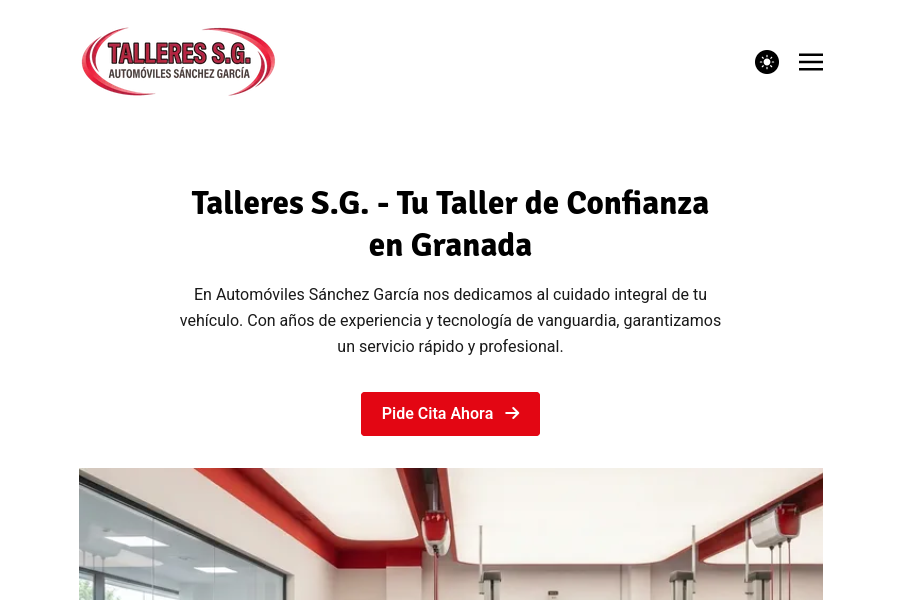
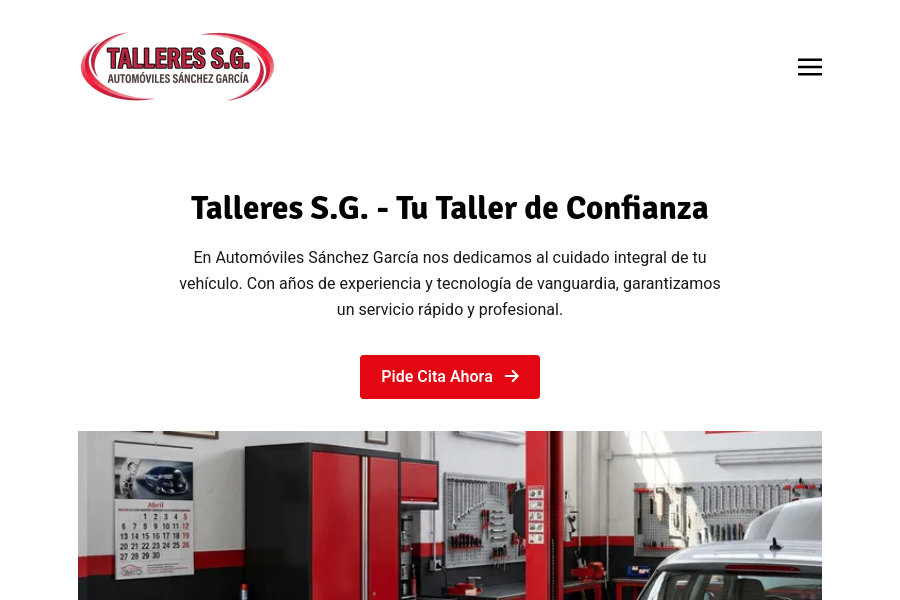
Update images

diff --git a/content/spanish/_index.md b/content/spanish/_index.md
@@ -3,7 +3,7 @@
 banner:
   title: "Talleres S.G. - Tu Taller de Confianza"
   content: "En Automóviles Sánchez García nos dedicamos al cuidado integral de tu vehículo. Con años de experiencia y tecnología de vanguardia, garantizamos un servicio rápido y profesional."
-  image: "/images/hero-workshop2.png"
+  image: "/images/hero-workshop3.png"
   button:
     enable: true
     label: "Pide Cita Ahora"
@@ -25,7 +25,7 @@ features:
       link: ""
 
   - title: "Neumáticos y Diagnosis Avanzada"
-    image: "/images/service-tires.png"
+    image: "/images/service_tires_diagnosis_local.png"
     content: "Contamos con equipos de diagnosis de última generación para detectar cualquier fallo electrónico en tu vehículo de forma precisa."
     bulletpoints:
       - "Venta y montaje de neumáticos"
@@ -38,7 +38,7 @@ features:
       link: "/services"
 
   - title: "¿Por qué elegir Talleres S.G.?"
-    image: "/images/service-3.png"
+    image: "/images/service_trust_local2.png"
     content: "Somos un taller familiar comprometido con el cliente. Honestidad y transparencia en cada presupuesto."
     bulletpoints:
       - "Presupuestos sin compromiso y precios competitivos."

diff --git a/content/spanish/about/_index.md b/content/spanish/about/_index.md
@@ -2,7 +2,7 @@
 title: "Sobre Nosotros - Automóviles Sánchez García"
 meta_title: "Quiénes Somos"
 description: "Conoce la historia y el equipo detrás de Talleres S.G."
-image: "/images/hero-workshop2.png"
+image: "/images/hero-workshop3.png"
 layout: "about"
 draft: false
 ---
